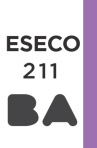
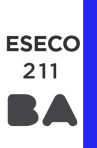
Color de la etiqueta RGB #2424F0

Changed region(s): [[0.8351, 0.0, 1.0, 1.0]]

diff --git a/src/unlogged/digitov.ts b/src/unlogged/digitov.ts
@@ -29,8 +29,8 @@ export class DigitoVerificador<Num extends bigint|number>{
 
 var eseco='211';
 
-var v1 = eseco=='211'?new DigitoVerificador(Number, [2,3,4,5],11,3): eseco=='201'?new DigitoVerificador(Number, [2,3,4,5],11): eseco=='202'? new DigitoVerificador(Number, [2,3,4,5],11,1) :  new DigitoVerificador(Number, [2,3,4,5],11,2);
-var v2 = eseco=='211'?new DigitoVerificador(Number, [3,4,5,7],11,1): eseco=='201'?new DigitoVerificador(Number, [3,4,5,7],11): eseco=='202'? new DigitoVerificador(Number, [3,4,5,9],11)   :  new DigitoVerificador(Number, [3,4,5,13],11);
+var v1 = eseco=='211'?new DigitoVerificador(Number, [2,3,4,7],11,3): eseco=='201'?new DigitoVerificador(Number, [2,3,4,5],11): eseco=='202'? new DigitoVerificador(Number, [2,3,4,5],11,1) :  new DigitoVerificador(Number, [2,3,4,5],11,2);
+var v2 = eseco=='211'?new DigitoVerificador(Number, [3,4,5,9],11,0): eseco=='201'?new DigitoVerificador(Number, [3,4,5,7],11): eseco=='202'? new DigitoVerificador(Number, [3,4,5,9],11)   :  new DigitoVerificador(Number, [3,4,5,13],11);
 
 export function controlarCodigoDV2(codigo:string){
     var [i,dd]=codigo.split('-');
